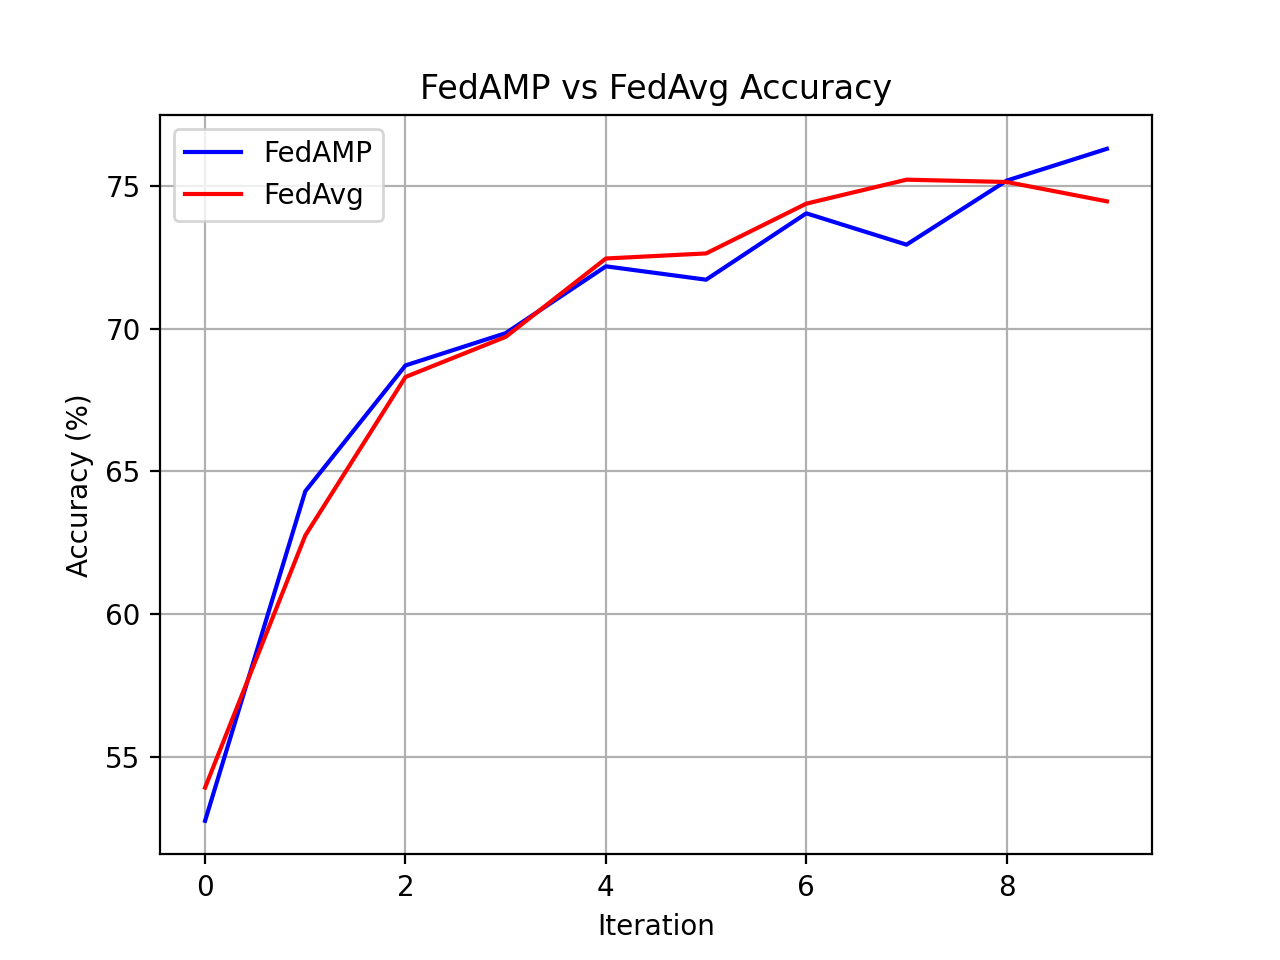
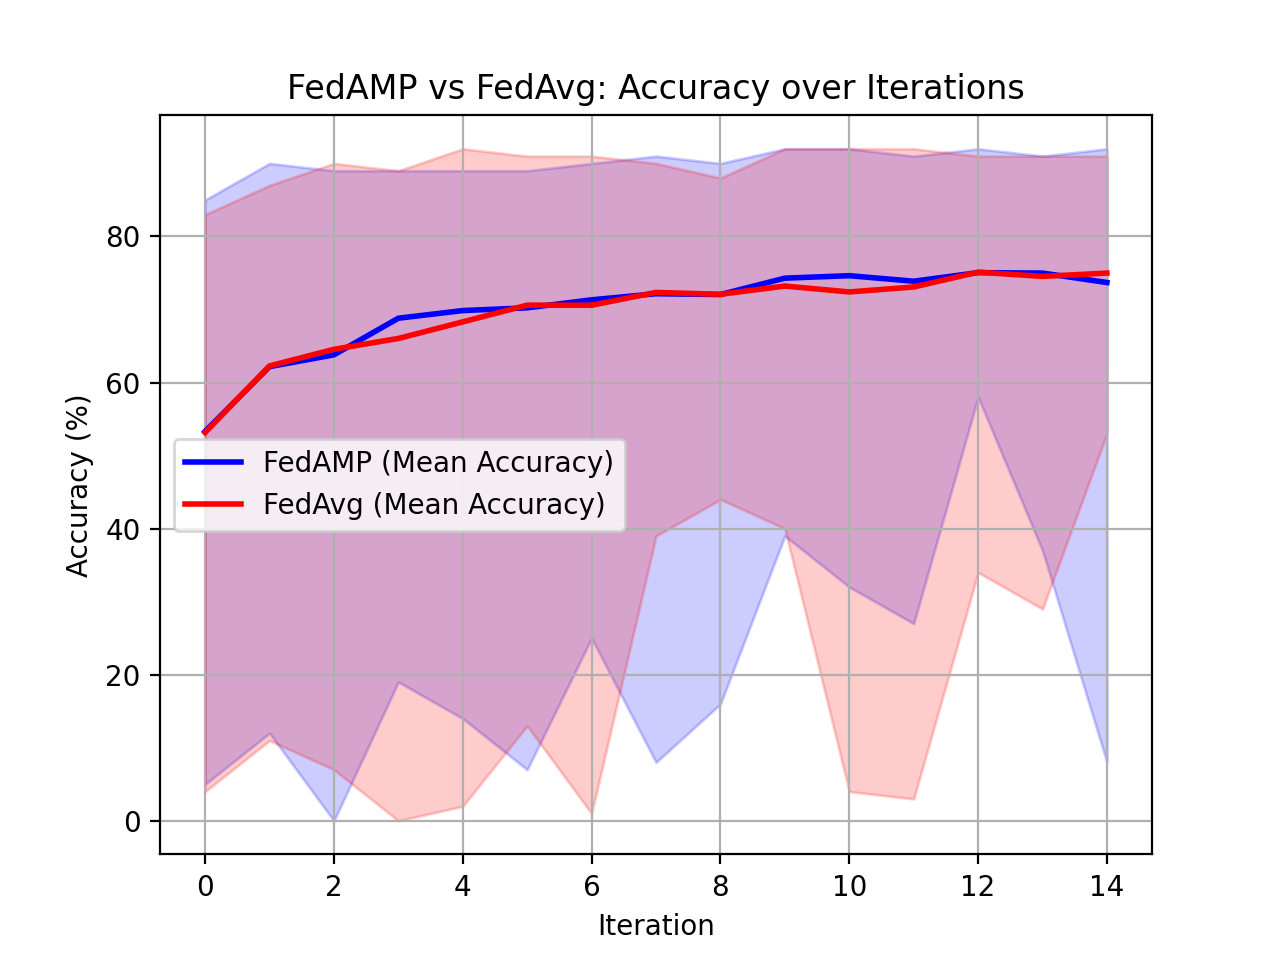
241016 16:28

diff --git a/data.py b/data.py
@@ -23,7 +23,7 @@ def create_client_datasets(train_dataset, num_clients, test_size_per_client):
 
     return clients_data, digit_indices, upper_indices, lower_indices
 
-def assign_data_with_dominating_and_other_classes(train_dataset, clients_data, digit_indices, upper_indices, lower_indices, dominant_ratio=0.8, test_size_per_client=100):
+def assign_data_with_dominating_and_other_classes(train_dataset, clients_data, digit_indices, upper_indices, lower_indices, dominant_ratio=0.7, test_size_per_client=100):
     client_train_datasets = []
     client_test_datasets = []
 

diff --git a/model.py b/model.py
@@ -6,8 +6,8 @@ class SimpleCNN(nn.Module):
         super(SimpleCNN, self).__init__()
         self.conv1 = nn.Conv2d(1, 32, kernel_size=3, stride=1, padding=1)
         self.conv2 = nn.Conv2d(32, 64, kernel_size=3, stride=1, padding=1)
-        self.fc1 = nn.Linear(64 * 14 * 14, 128)
-        self.fc2 = nn.Linear(128, 62)
+        self.fc1 = nn.Linear(64 * 14 * 14, 512)
+        self.fc2 = nn.Linear(512, 62)
 
     def forward(self, x):
         x = torch.relu(self.conv1(x))

diff --git a/main.py b/main.py
@@ -8,7 +8,7 @@ from utils.fedamp import aggregate_models_amp, aggregate_models_avg
 
 device = torch.device("cuda" if torch.cuda.is_available() else "cpu")
 num_clients = 62
-num_iterations = 10
+num_iterations = 15
 alpha = 0.1
 lambda_param = 0.5
 sigma = 1.0
